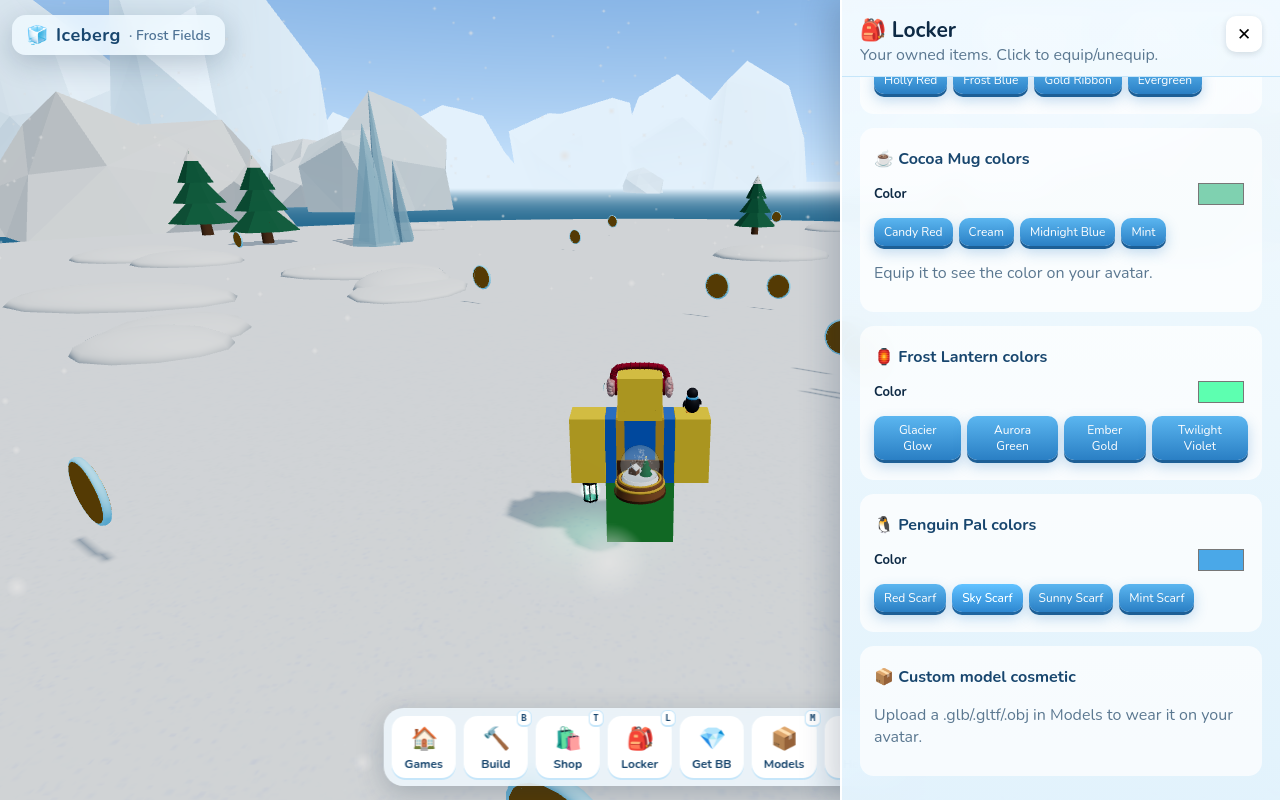
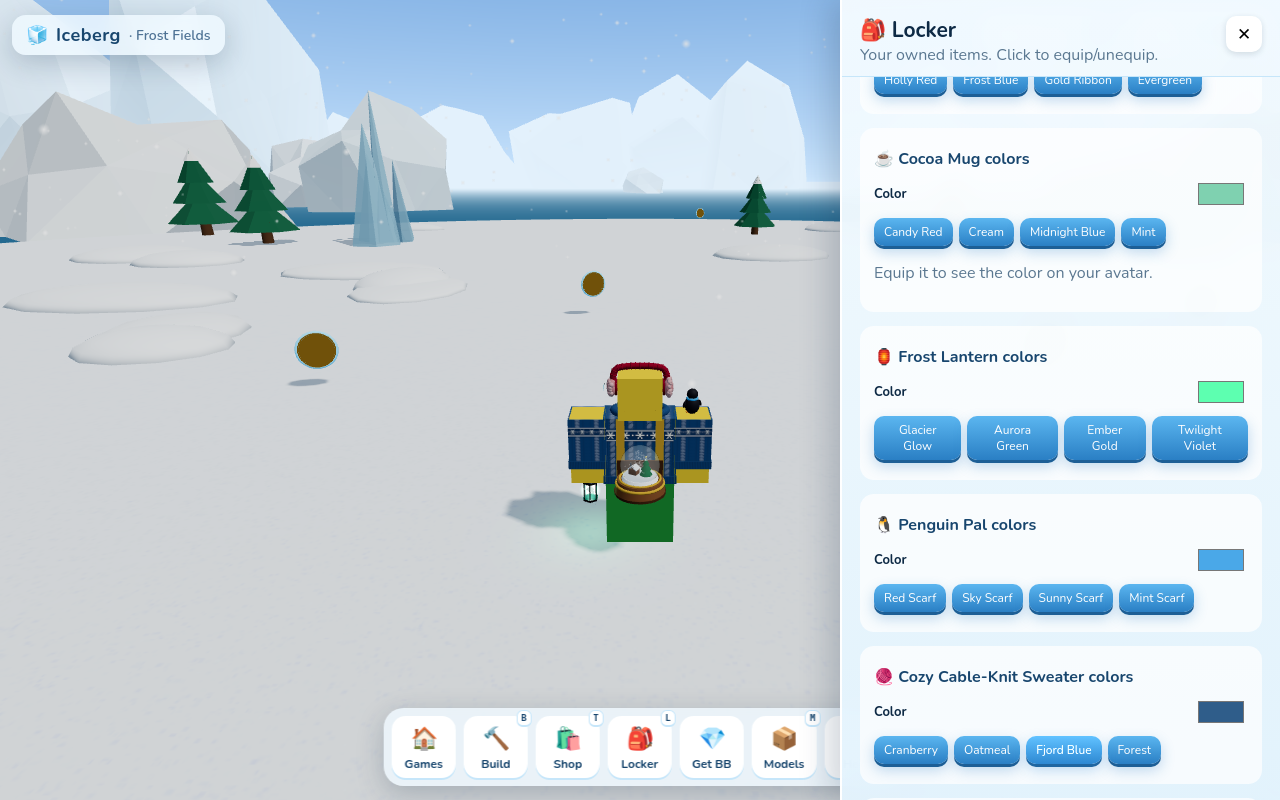
Cosmetics: Cozy Cable-Knit Sweater (cable_sweater, 260 BB), multi-bone cosmetic parts; test framing

diff --git a/src/game/avatar.js b/src/game/avatar.js
@@ -40,6 +40,7 @@ const BUILDERS = {
   earmuffs(_rc, color) { return buildEarmuffs(color); },
   snowglobe_pack(_rc, color) { return buildSnowGlobe(color); },
   cocoa_mug(_rc, color) { return buildCocoaMug(color); },
+  cable_sweater(_rc, color) { return buildSweater(color); },
   frost_lantern(_rc, color) { return buildFrostLantern(color); },
   penguin_pal(_rc, color) { return buildPenguinPal(color); },
   cap() {
@@ -473,6 +474,89 @@ function buildPenguinPal(color) {
   return { bone: 'torso', object: g };
 }
 
+// Draws a cable-knit panel in `color` (w x h px). band = snowflake/fair-isle band row.
+function drawSweater(c, color, { band = true, cables = 4 } = {}) {
+  const g = c.getContext('2d'), W = c.width, H = c.height;
+  const base = new THREE.Color(color), dark = base.clone().lerp(new THREE.Color('#000'), 0.28), light = base.clone().lerp(new THREE.Color('#fff'), 0.18);
+  const css = (col) => '#' + col.getHexString();
+  const cream = base.getHSL({}).l > 0.6 ? '#7a5b3a' : '#f6f1e6';
+  g.fillStyle = css(base); g.fillRect(0, 0, W, H);
+  // purl texture
+  for (let y = 0; y < H; y += 6) for (let x = (y / 6) % 2 * 3; x < W; x += 6) { g.fillStyle = css(dark); g.globalAlpha = 0.25; g.fillRect(x, y, 3, 3); }
+  g.globalAlpha = 1;
+  // cables: interlocking twisted ropes
+  const cw = W / cables;
+  for (let i = 0; i < cables; i++) {
+    const cx = cw * (i + 0.5);
+    g.fillStyle = css(dark); g.fillRect(cx - cw * 0.32, 0, 3, H); g.fillRect(cx + cw * 0.32 - 3, 0, 3, H);
+    for (let y = -16; y < H + 16; y += 22) {
+      for (const s of [-1, 1]) {
+        g.save(); g.translate(cx, y); g.rotate(s * 0.6);
+        g.fillStyle = css(light); g.beginPath(); g.ellipse(0, 0, cw * 0.13, 13, 0, 0, Math.PI * 2); g.fill();
+        g.strokeStyle = css(dark); g.lineWidth = 2; g.stroke(); g.restore();
+      }
+    }
+  }
+  if (band) {
+    const by = H * 0.18, bh = H * 0.2;
+    g.fillStyle = css(dark); g.fillRect(0, by, W, bh);
+    g.fillStyle = cream; g.fillRect(0, by + 3, W, 3); g.fillRect(0, by + bh - 6, W, 3);
+    // snowflakes
+    const n = Math.round(W / (bh * 1.1)), sx = W / n;
+    g.strokeStyle = cream; g.lineWidth = 3; g.lineCap = 'round';
+    for (let i = 0; i < n; i++) {
+      const x = sx * (i + 0.5), y = by + bh / 2, r = bh * 0.3;
+      for (let k = 0; k < 3; k++) {
+        const a = k * Math.PI / 3, dx = Math.cos(a) * r, dy = Math.sin(a) * r;
+        g.beginPath(); g.moveTo(x - dx, y - dy); g.lineTo(x + dx, y + dy); g.stroke();
+      }
+      g.fillStyle = cream; for (const ox of [-sx / 2, sx / 2]) { g.beginPath(); g.arc(x + ox, y, 2.5, 0, Math.PI * 2); g.fill(); }
+    }
+  }
+}
+function ribTexture(color) {
+  const c = document.createElement('canvas'); c.width = 64; c.height = 16;
+  const g = c.getContext('2d'), base = new THREE.Color(color), dark = base.clone().lerp(new THREE.Color('#000'), 0.3);
+  g.fillStyle = '#' + base.getHexString(); g.fillRect(0, 0, 64, 16);
+  g.fillStyle = '#' + dark.getHexString(); for (let x = 0; x < 64; x += 8) g.fillRect(x, 0, 3, 16);
+  const t = new THREE.CanvasTexture(c); t.colorSpace = THREE.SRGBColorSpace; t.wrapS = THREE.RepeatWrapping; return t;
+}
+
+function buildSweater(color) {
+  const g = new THREE.Group();
+  const panels = [];
+  const panel = (w, h, opts, rep = 1) => {
+    const c = document.createElement('canvas'); c.width = 256; c.height = Math.round(256 * h / w);
+    drawSweater(c, color, opts);
+    const t = new THREE.CanvasTexture(c); t.colorSpace = THREE.SRGBColorSpace;
+    const m = new THREE.MeshStandardMaterial({ map: t, bumpMap: t, bumpScale: 0.6, roughness: 1 });
+    panels.push({ c, t, opts }); return m;
+  };
+  const ribs = [];
+  const rib = (rx = 1) => { const t = ribTexture(color); t.repeat.set(rx, 1); const m = new THREE.MeshStandardMaterial({ map: t, roughness: 1 }); ribs.push(m); return m; };
+  // body: slightly larger than the 1 x 1 x 0.5 torso
+  const front = panel(1.04, 0.92, { band: true, cables: 4 });
+  const side = panel(0.54, 0.92, { band: true, cables: 2 });
+  const top = panel(1.04, 0.54, { band: false, cables: 4 });
+  g.add(mesh(new THREE.BoxGeometry(1.04, 0.92, 0.54), [side, side, top, top, front, front], 0, 0.06, 0));
+  g.add(mesh(new THREE.BoxGeometry(1.06, 0.12, 0.56), rib(6), 0, -0.44, 0));                 // ribbed hem
+  // fold-over collar around the neck
+  const collar = mesh(new THREE.TorusGeometry(0.36, 0.055, 10, 32), rib(10), 0, 0.55, 0); collar.rotation.x = Math.PI / 2; collar.scale.set(1.05, 0.7, 1); g.add(collar);
+  // sleeves (extras on arm bones)
+  const sleeve = panel(0.54, 0.66, { band: true, cables: 2 });
+  const extras = ['armL', 'armR'].map(bone => {
+    const s = new THREE.Group();
+    s.add(mesh(new THREE.BoxGeometry(0.54, 0.66, 0.54), sleeve, 0, -0.33, 0));
+    s.add(mesh(new THREE.BoxGeometry(0.56, 0.12, 0.56), rib(3), 0, -0.7, 0));                // cuff
+    return { bone, object: s };
+  });
+  g.userData.setColor = (col) => {
+    for (const p of panels) { drawSweater(p.c, col, p.opts); p.t.needsUpdate = true; }
+    for (const m of ribs) { const nt = ribTexture(col); nt.repeat.copy(m.map.repeat); m.map.dispose(); m.map = nt; m.needsUpdate = true; }
+  };
+  return { bone: 'torso', object: g, extras };
+}
+
 export class Avatar {
   constructor() {
     this.root = new THREE.Group();
@@ -598,9 +682,11 @@ export class Avatar {
       if (item.kind === 'skin') skin = item.color;
       else if (item.kind === 'shirt') { shirt = item.color; pants = item.pants; }
       else if (BUILDERS[id]) {
-        const { bone, object } = BUILDERS[id](this.rocketColors, this.cosmeticColors[id] || item.defaultColor);
+        const { bone, object, extras } = BUILDERS[id](this.rocketColors, this.cosmeticColors[id] || item.defaultColor);
         object.traverse(o => { if (o.isMesh) o.castShadow = true; });
         this.bones[bone].add(object);
+        // optional extra pieces on other bones (e.g. sweater sleeves); removed with the main object
+        object.userData.extras = (extras || []).map(e => { e.object.traverse(o => { if (o.isMesh) o.castShadow = true; }); this.bones[e.bone].add(e.object); return e.object; });
         object.userData.cosmeticId = id;
         this.attached[slot] = object;
       }
@@ -628,7 +714,7 @@ export class Avatar {
 
   _detach(slot) {
     const o = this.attached[slot];
-    if (o) o.parent?.remove(o);
+    if (o) { o.parent?.remove(o); (o.userData.extras || []).forEach(x => x.parent?.remove(x)); }
     delete this.attached[slot];
   }
 

diff --git a/scripts/cosmetic-preview.html b/scripts/cosmetic-preview.html
@@ -19,7 +19,7 @@ av.applyLoadout({ equipped: { [item.slot]: id }, cosmeticColors: color ? { [id]:
 for (let i = 0; i < 90; i++) av.animate(1 / 30, {});
 av.bones.armR.rotation.x = 0; av.bones.armL.rotation.x = 0;
 av.bones.legL.rotation.x = av.bones.legR.rotation.x = 0;
-const focus = id === 'penguin_pal' ? [-0.75, 2.15, 0, 1.6] : id === 'frost_lantern' ? [0.75, 0.85, 0, 1.7] : { head: [0, 2.4, 0, 2.6], torso: [0, 1.35, -0.4, 3.6], armR: [0.75, 1.1, 0.35, 2.4] }[{ hat: 'head', back: 'torso', hand: 'armR' }[item.slot]];
+const focus = id === 'penguin_pal' ? [-0.75, 2.15, 0, 1.6] : id === 'frost_lantern' ? [0.75, 0.85, 0, 1.7] : item.slot === 'shirt' ? [0, 1.55, 0, 4.2] : { head: [0, 2.4, 0, 2.6], torso: [0, 1.35, -0.4, 3.6], armR: [0.75, 1.1, 0.35, 2.4] }[{ hat: 'head', back: 'torso', hand: 'armR' }[item.slot]];
 const yaw = { front: 0, side: id === 'penguin_pal' ? -Math.PI / 2 : Math.PI / 2, threequarter: Math.PI / 4, back: Math.PI, backthreequarter: Math.PI * 0.75 }[angle];
 const cam = new THREE.PerspectiveCamera(35, W / H, 0.1, 50);
 cam.position.set(focus[0] + Math.sin(yaw) * focus[3], focus[1] + (item.slot === 'hand' ? (id === 'frost_lantern' ? 0.3 : 0.9) : 0.25), focus[2] + Math.cos(yaw) * focus[3]);

diff --git a/src/data/cosmetics.js b/src/data/cosmetics.js
@@ -79,3 +79,12 @@ for (const c of [
     desc: 'A tiny penguin buddy who rides on your shoulder, flaps happily and wears a scarf you pick.',
   },
 ]) { COSMETICS.push(c); COSMETIC_BY_ID[c.id] = c; }
+
+// Wearable 3D outfit (kind 'model' in the shirt slot: knit body + sleeves over the torso/arms).
+COSMETICS.push({
+  id: 'cable_sweater', name: 'Cozy Cable-Knit Sweater', slot: 'shirt', price: 260, icon: '🧶',
+  kind: 'model', winter: true, customizable: true, defaultColor: '#b3243c',
+  colorPresets: [['Cranberry', '#b3243c'], ['Oatmeal', '#d9c7a3'], ['Fjord Blue', '#2f5d8a'], ['Forest', '#2f6b45']],
+  desc: 'Chunky cable-knit with a snowflake band, ribbed cuffs and a fold-over collar. Instant fireside vibes.',
+});
+COSMETIC_BY_ID.cable_sweater = COSMETICS[COSMETICS.length - 1];
